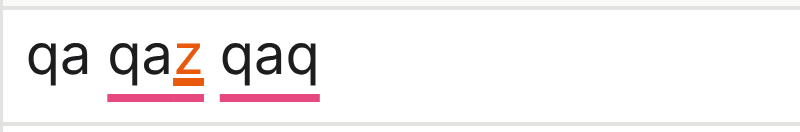
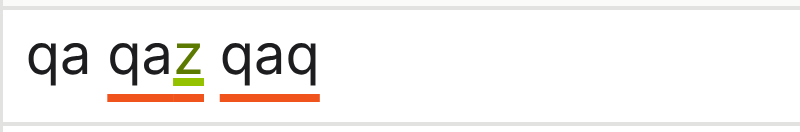
Recolor the parse underlines and give both the same thickness (#11)
Letters with no phoneme: yellow-green. Words not in the lexicon:
reddish-orange. Both underlines are 2px.

Claude-Session: https://claude.ai/code/session_01KT6PgxASBqKM9e4XtqiJAx

Changed region(s): [[0.125, 0.697, 0.4062, 0.7879], [0.2188, 0.303, 0.2812, 0.6667]]

diff --git a/styles.css b/styles.css
@@ -50,7 +50,7 @@ th[data-col="notes"] { width:40%; }
 .word input { position:relative; color:transparent; caret-color:var(--fg); }
 .word input::selection { color:transparent; background:color-mix(in srgb, var(--accent) 30%, transparent); }
 .word-overlay { position:absolute; inset:0; padding:2px 6px; line-height:20px; white-space:pre; overflow:hidden; pointer-events:none; color:var(--fg); }
-.word-overlay .unknown { color:var(--warn); text-decoration:underline 1.5px var(--warn); text-underline-offset:1px; text-decoration-skip-ink:none; }
+.word-overlay .unknown { color:var(--nophoneme-text); text-decoration:underline 2px var(--nophoneme); text-underline-offset:1px; text-decoration-skip-ink:none; }
 
 /* Phoneme cells */
 .phon { width:100%; min-height:24px; border:0; border-radius:0; background:none; text-align:left; padding:2px 6px; font:inherit; color:var(--fg); }
@@ -102,15 +102,15 @@ button.ipa-cell.current { background:var(--accent); color:#fff; }
 #tab-lexicon th[data-col="pos"] { width:9%; }
 table.grid th { white-space:nowrap; }
 
-/* Phrase words that are not in the lexicon: a pink line under the whole word. */
-:root { --missing:#e64980; }
-@media (prefers-color-scheme: dark) { :root:not([data-theme="light"]) { --missing:#f783ac; } }
-:root[data-theme="dark"] { --missing:#f783ac; }
+/* Letters with no phoneme: yellow-green. Words not in the lexicon: reddish-orange. Both lines are 2px. */
+:root { --nophoneme:#94c100; --nophoneme-text:#5c7a00; --missing:#f0531c; }
+@media (prefers-color-scheme: dark) { :root:not([data-theme="light"]) { --nophoneme:#b5e61d; --nophoneme-text:#c6ef4a; --missing:#ff7a45; } }
+:root[data-theme="dark"] { --nophoneme:#b5e61d; --nophoneme-text:#c6ef4a; --missing:#ff7a45; }
 .word-overlay .missing { text-decoration:underline 2px var(--missing); text-underline-offset:5px; text-decoration-skip-ink:none; }
 
 /* Part of speech multiselect */
 .pos { white-space:normal; }
 .list-popup { display:flex; flex-direction:column; gap:2px; padding:6px 10px; min-width:160px; }
 .list-popup label { display:flex; gap:6px; align-items:center; padding:2px 0; cursor:pointer; }
-/* Word cells get extra room at the bottom so the pink lexicon underline stays clear of the focus outline. */
+/* Word cells get extra room at the bottom so the lexicon underline stays clear of the focus outline. */
 td .word input, td .word .word-overlay { padding-bottom:6px; }

diff --git a/README.md b/README.md
@@ -4,7 +4,7 @@ A spreadsheet-style tool for building a constructed language.
 
 Create a language, then work in its tabs:
 
-- **Phrases**: English, your language, and notes. Words in your language are checked against the phonology as you type; letters with no phoneme are underlined in orange, and words that aren't in the Lexicon get a pink underline (both can show at once).
+- **Phrases**: English, your language, and notes. Words in your language are checked against the phonology as you type; letters with no phoneme are underlined in yellow-green, and words that aren't in the Lexicon get a reddish-orange underline (both can show at once).
 - **Phonology**: Consonants, Vowels and Diphthongs tables. Type a spelling under English Orthography, then click the Phoneme cell to pick from an IPA chart (click to choose, right-click to hear). Diphthongs use + to add more vowels.
 - **Lexicon**: Word, English, Part of Speech (pick one or more standard parts of speech), Note, In a Sentence and Sentence Translation. Word and In a Sentence are checked against the phonology like the Phrases language column.
 
